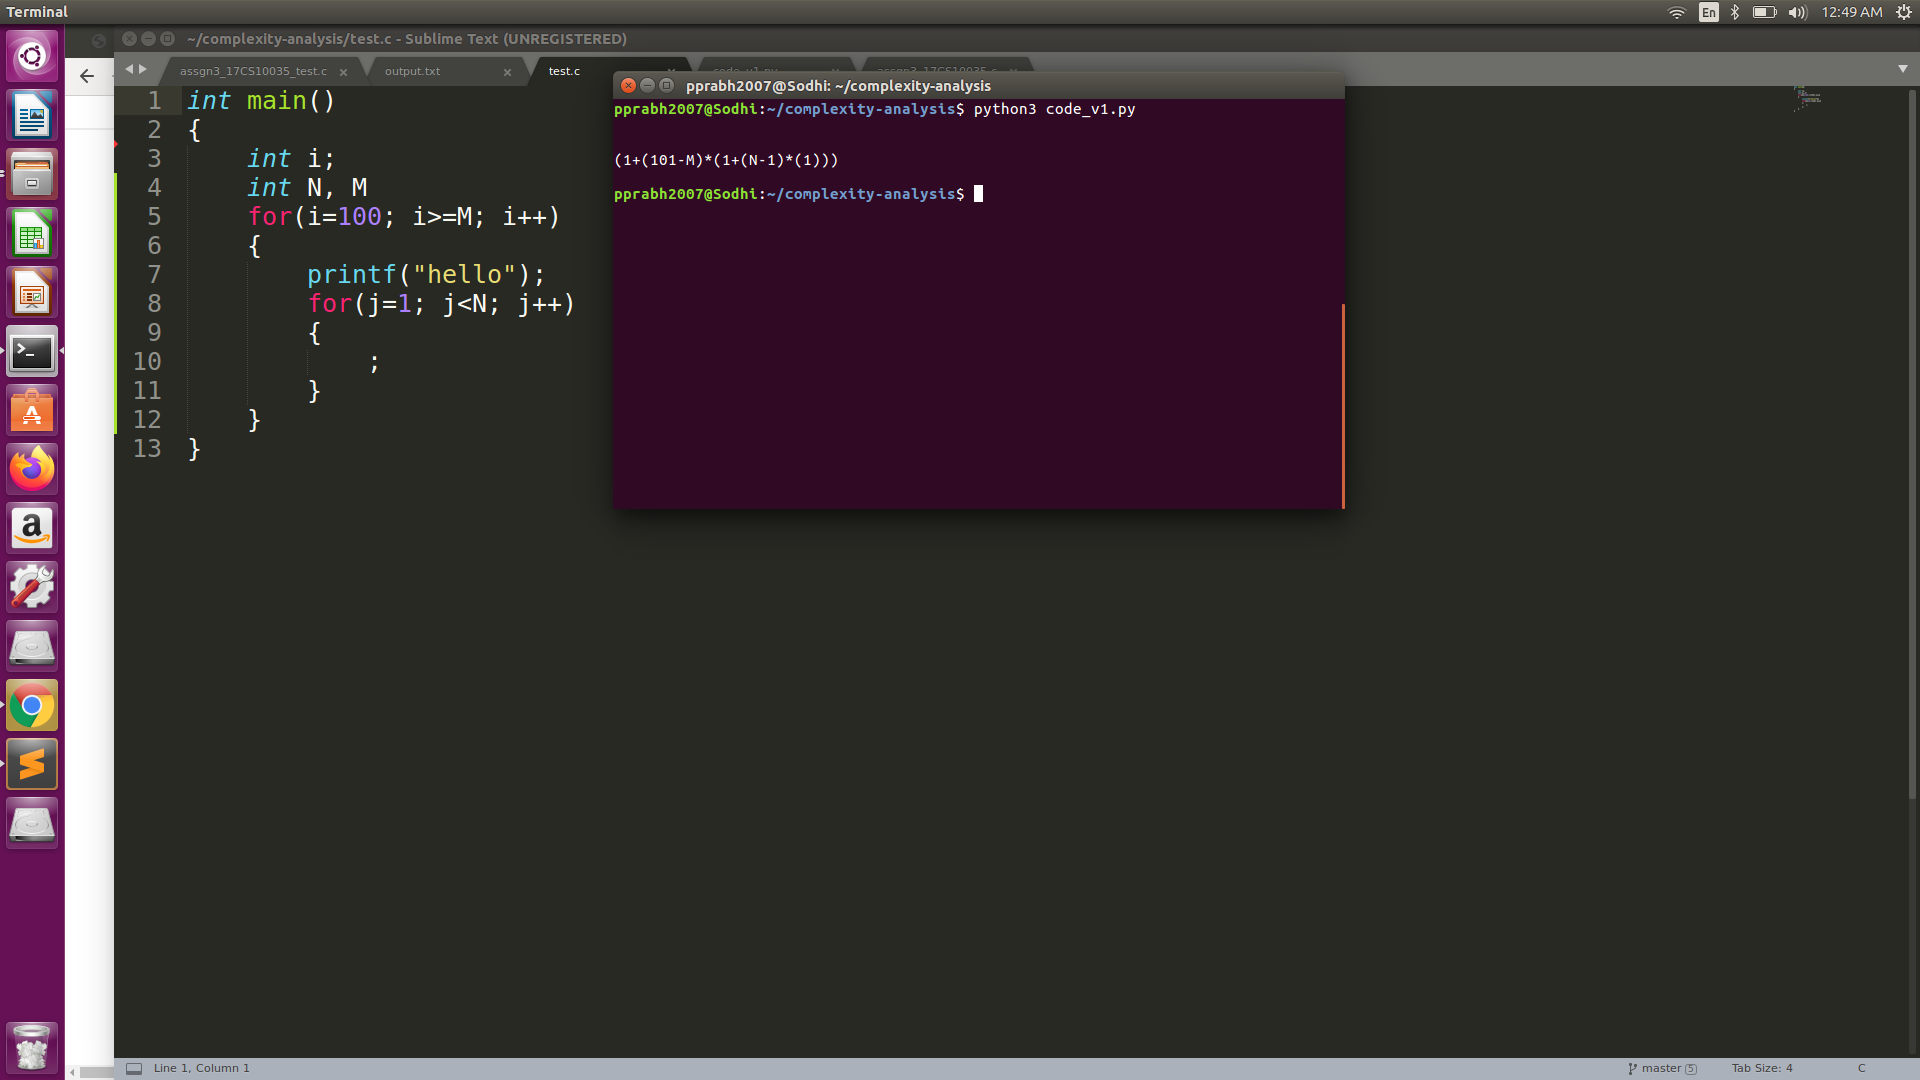
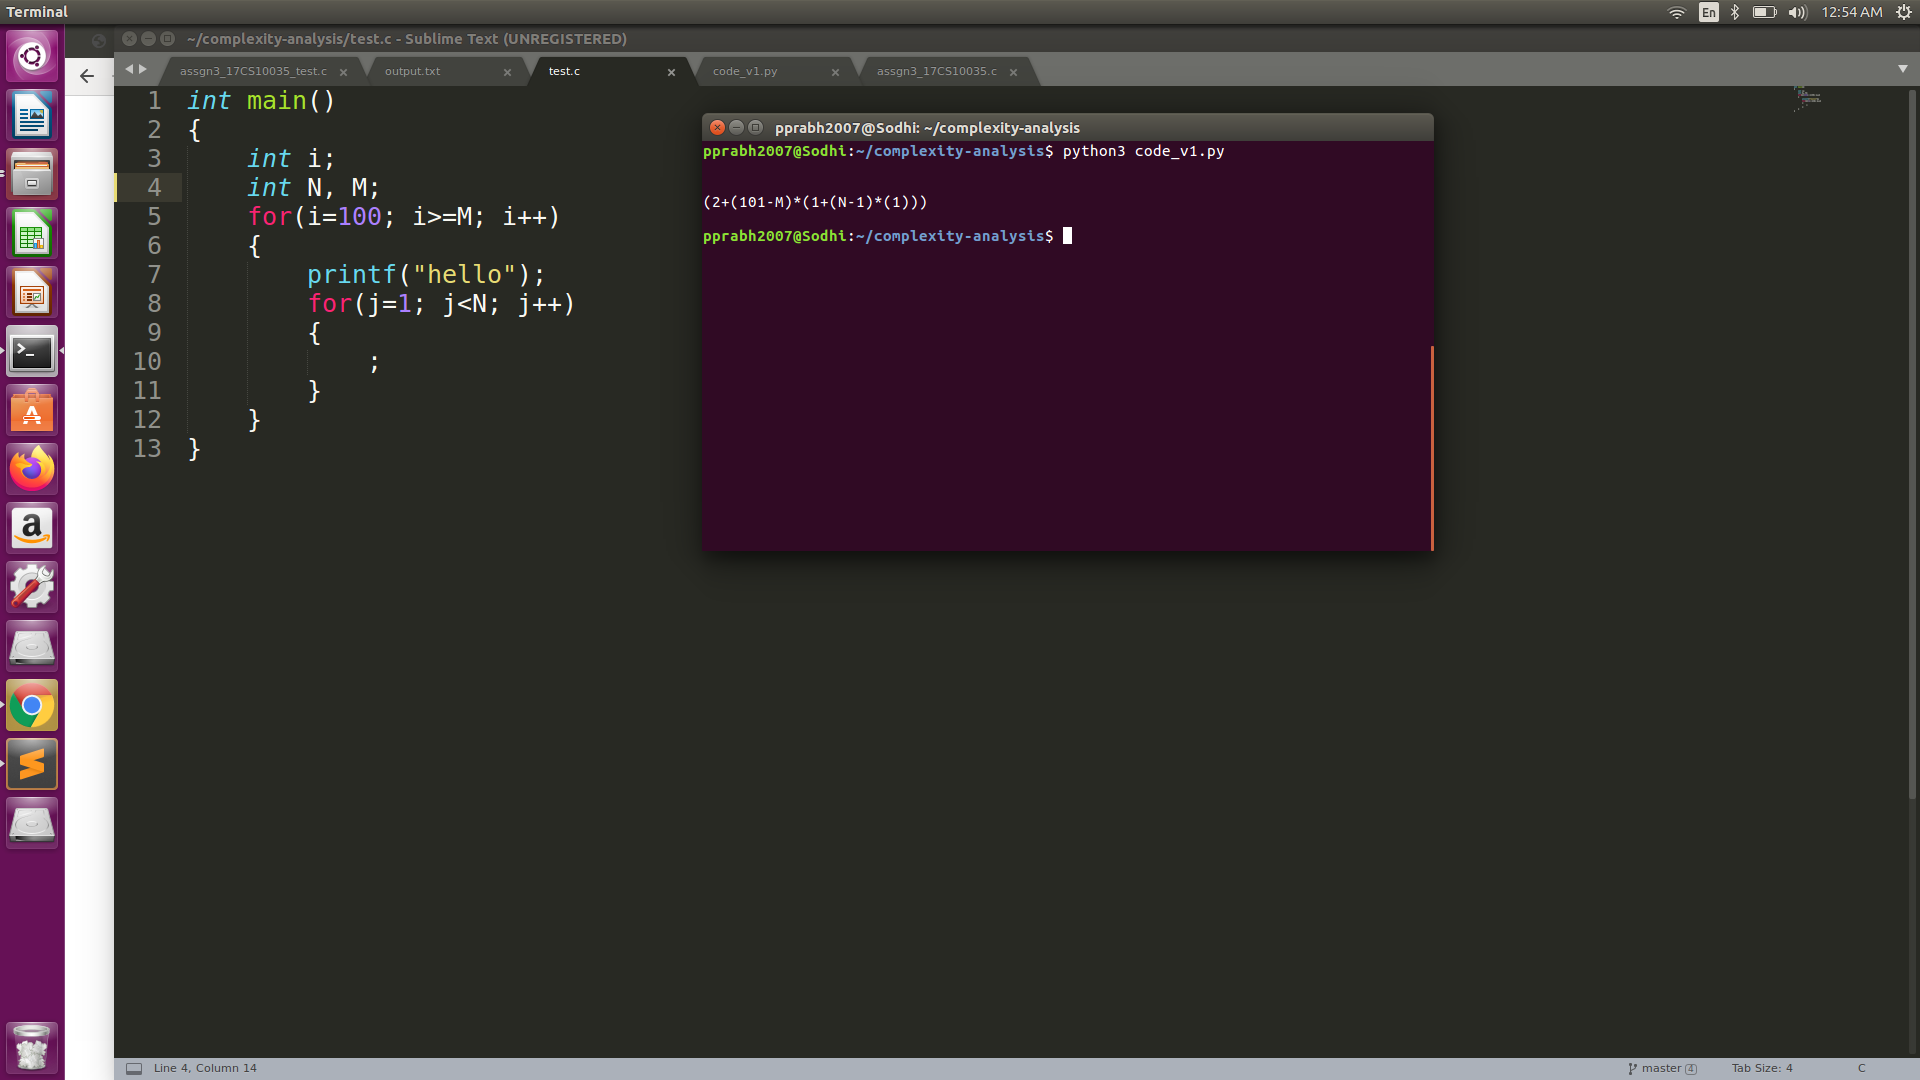
v1.0 with example

Changed region(s): [[0.3125, 0.0611, 0.75, 0.5194], [0.0312, 0.9778, 0.0625, 1.0]]

diff --git a/test.c b/test.c
@@ -1,7 +1,7 @@
 int main()
 {
 	int i;
-	int N, M
+	int N, M;
 	for(i=100; i>=M; i++)
 	{
 		printf("hello");
